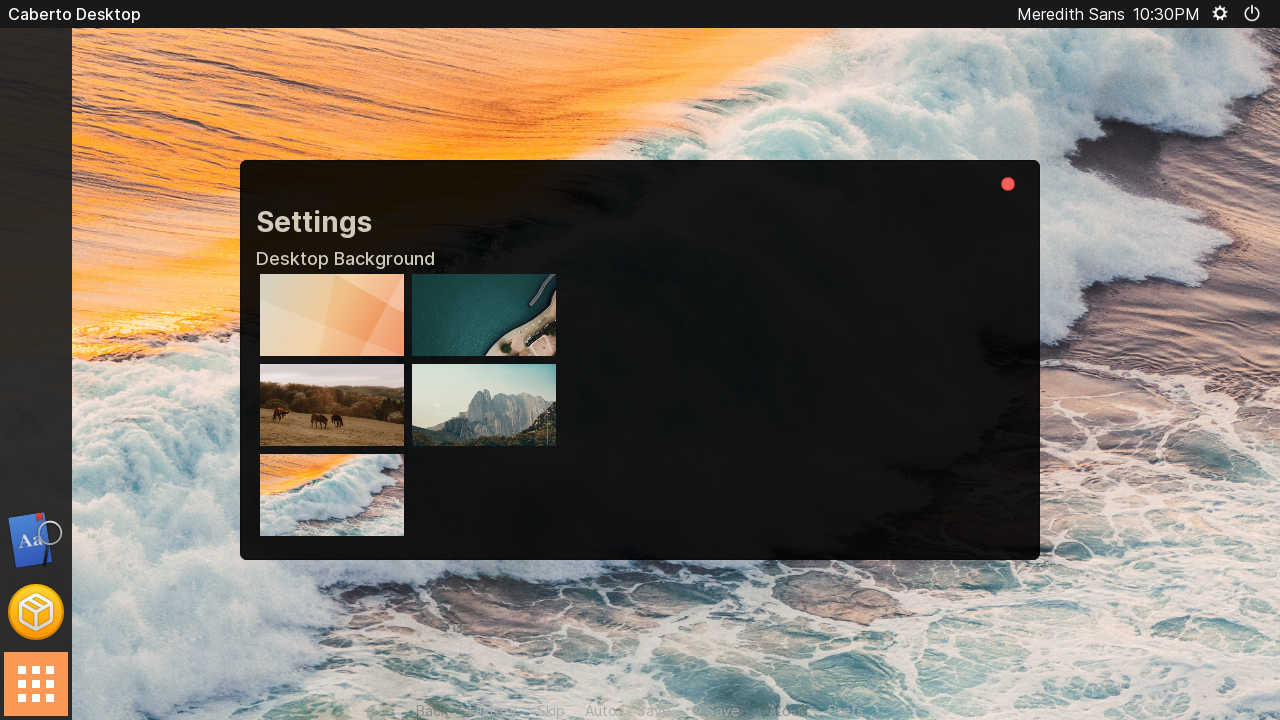
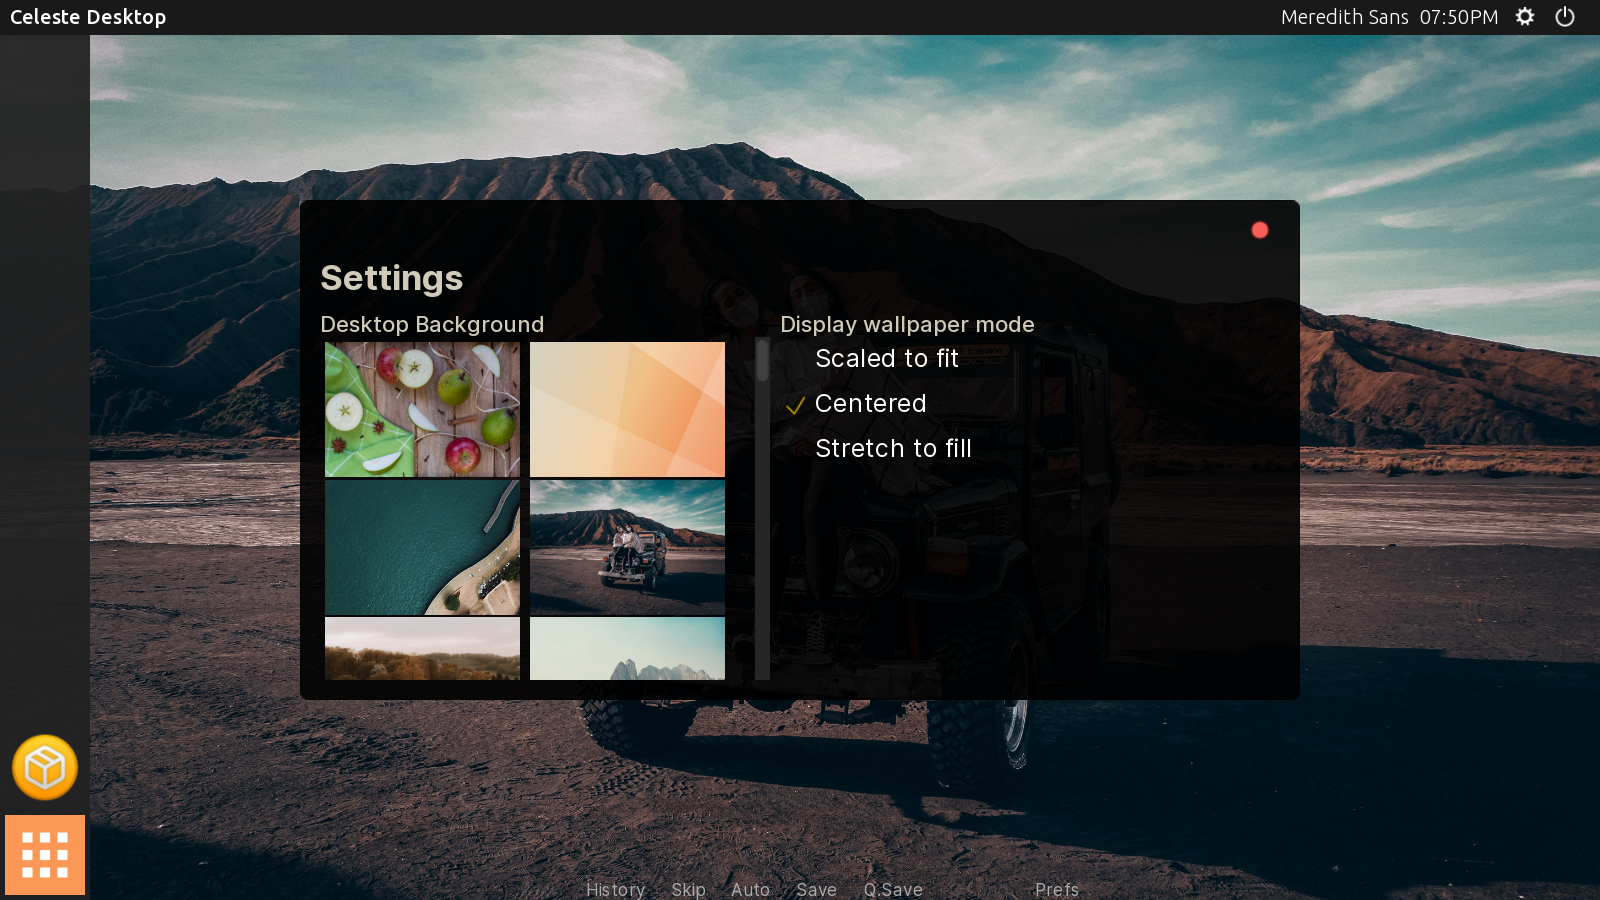
:memo: [docs] Update documentation on shell settings

diff --git a/docs/02-caberto-shell.md b/docs/02-caberto-shell.md
@@ -13,9 +13,13 @@ There are two major components to Celeste Shell: the top bar and the launcher on
 
 ![Celeste Shell drawer](./images/celeste/drawer.png)
 
-### Customizing the desktop
+### Customizing the desktop {label:updated}
 
-Click on the gear in the top bar to open the Settings pane for Celeste Shell. Currently, the only setting available in this panel is the wallpaper selection.
+Click on the gear in the top bar to open the Settings pane for Celeste Shell. There are two sections in the settings: wallpaper selection, followed by the wallpaper display mode, which can be one of three options:
+
+- `Scaled to fit` will try to fill the entire area of the display along the image's width and center it in the screen.
+- `Centered` will center the image and fit the entire area of the display along the image's height.
+- `Stretch to fill` will stretch the image to fit the display.
 
 ![Celeste Shell settings](./images/celeste/settings.png)
 
